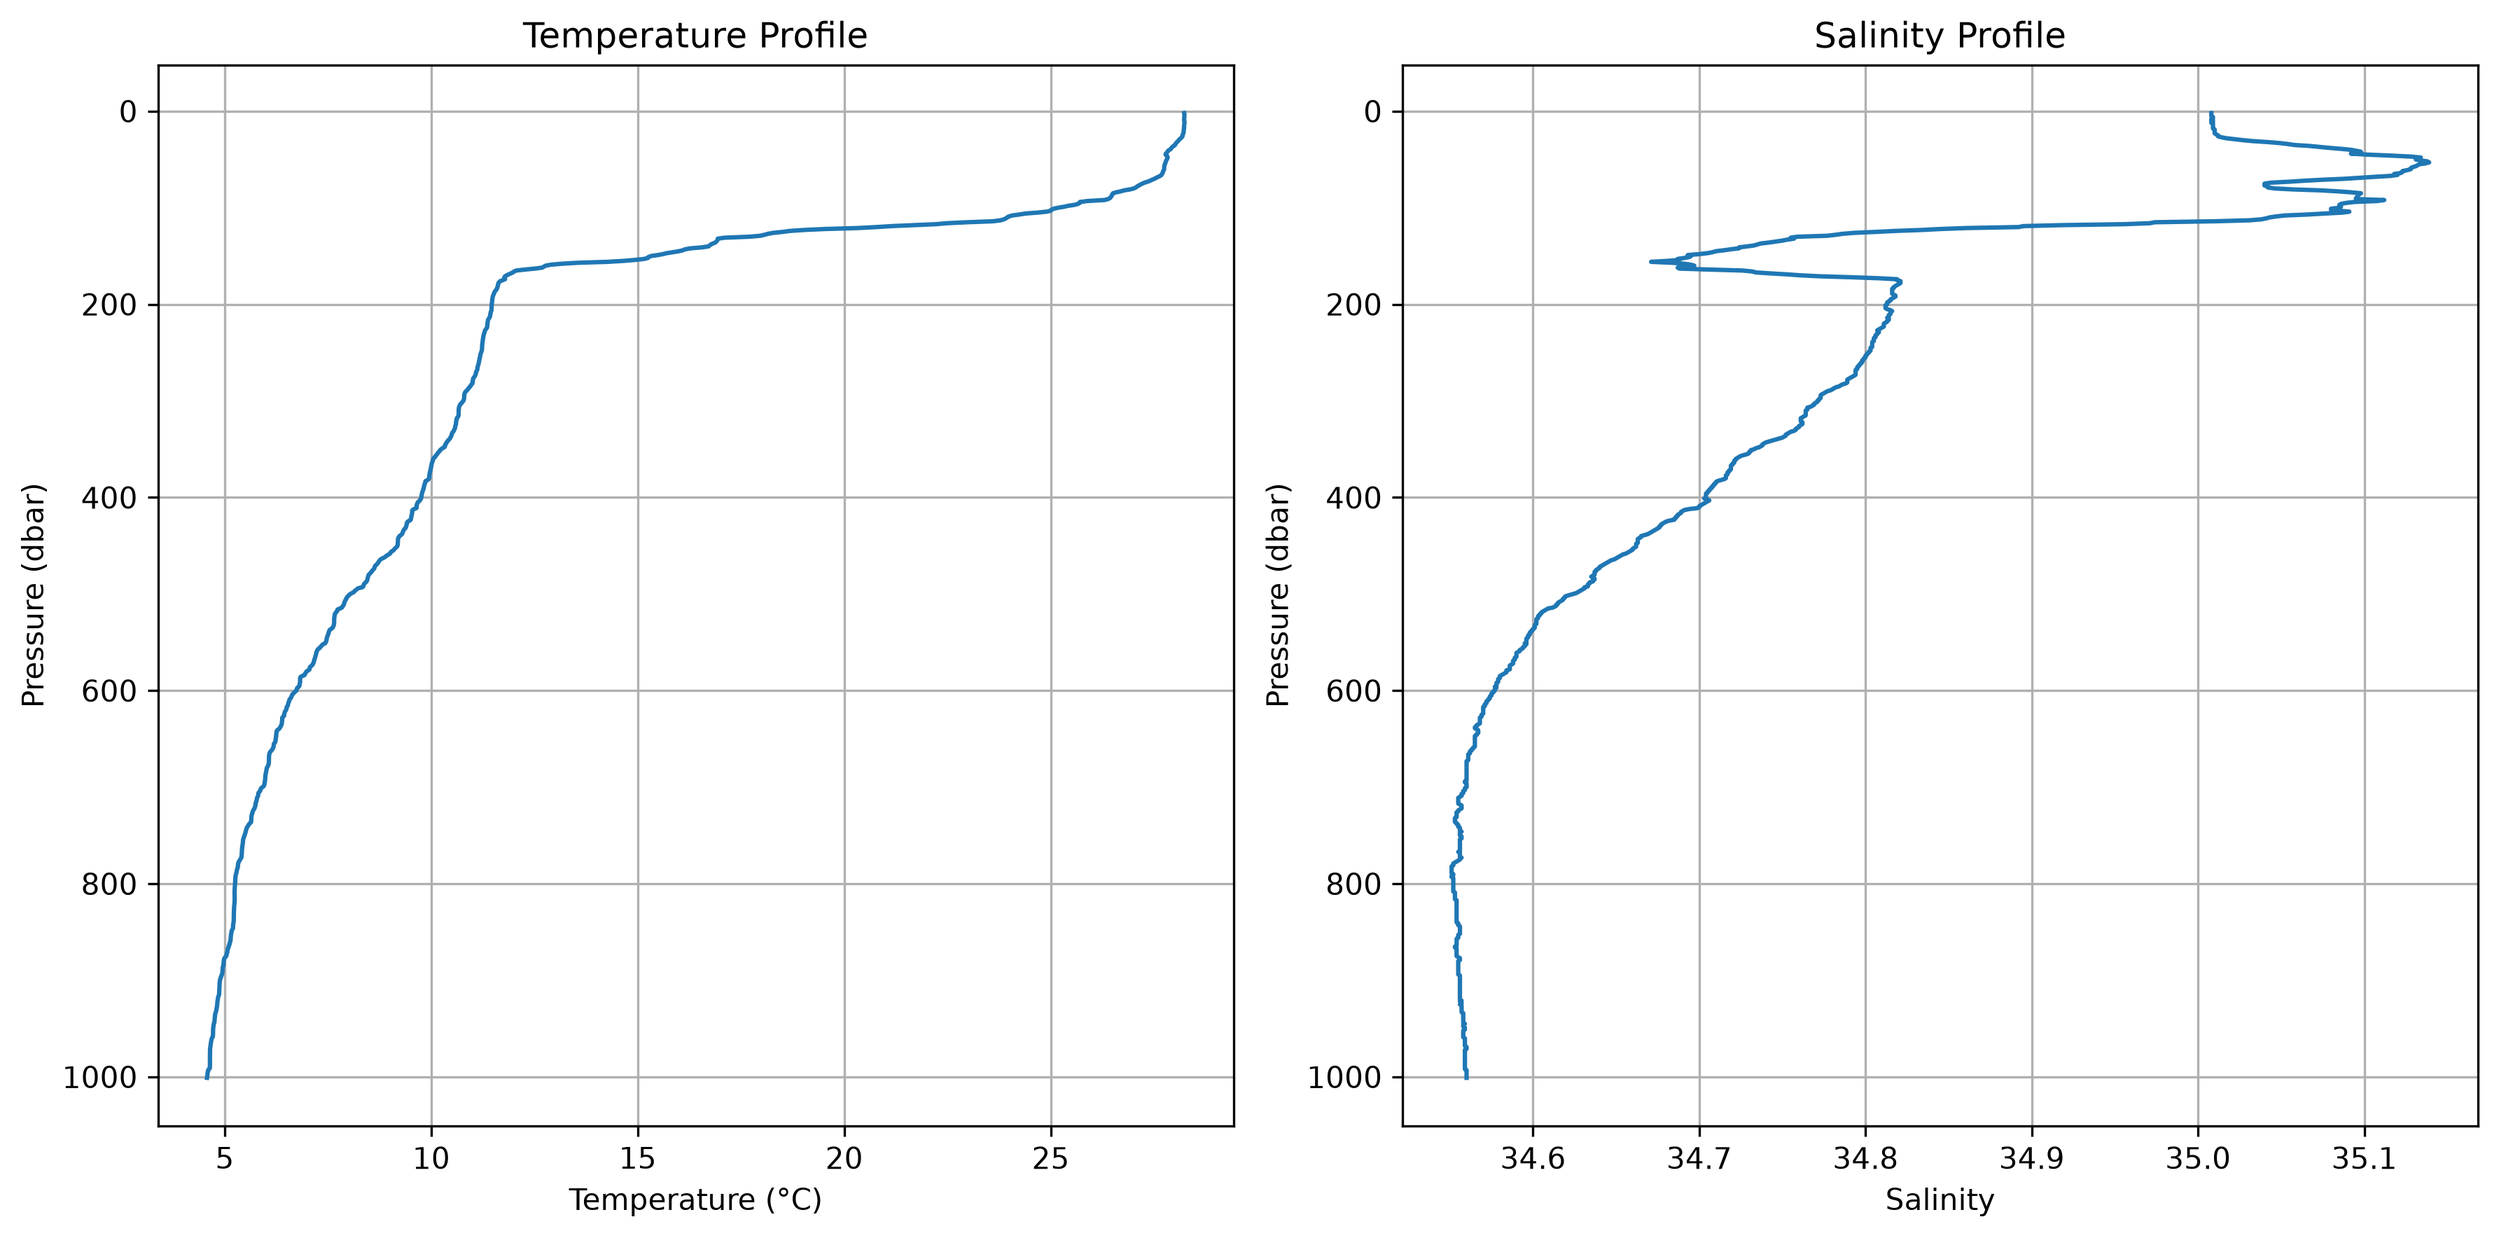
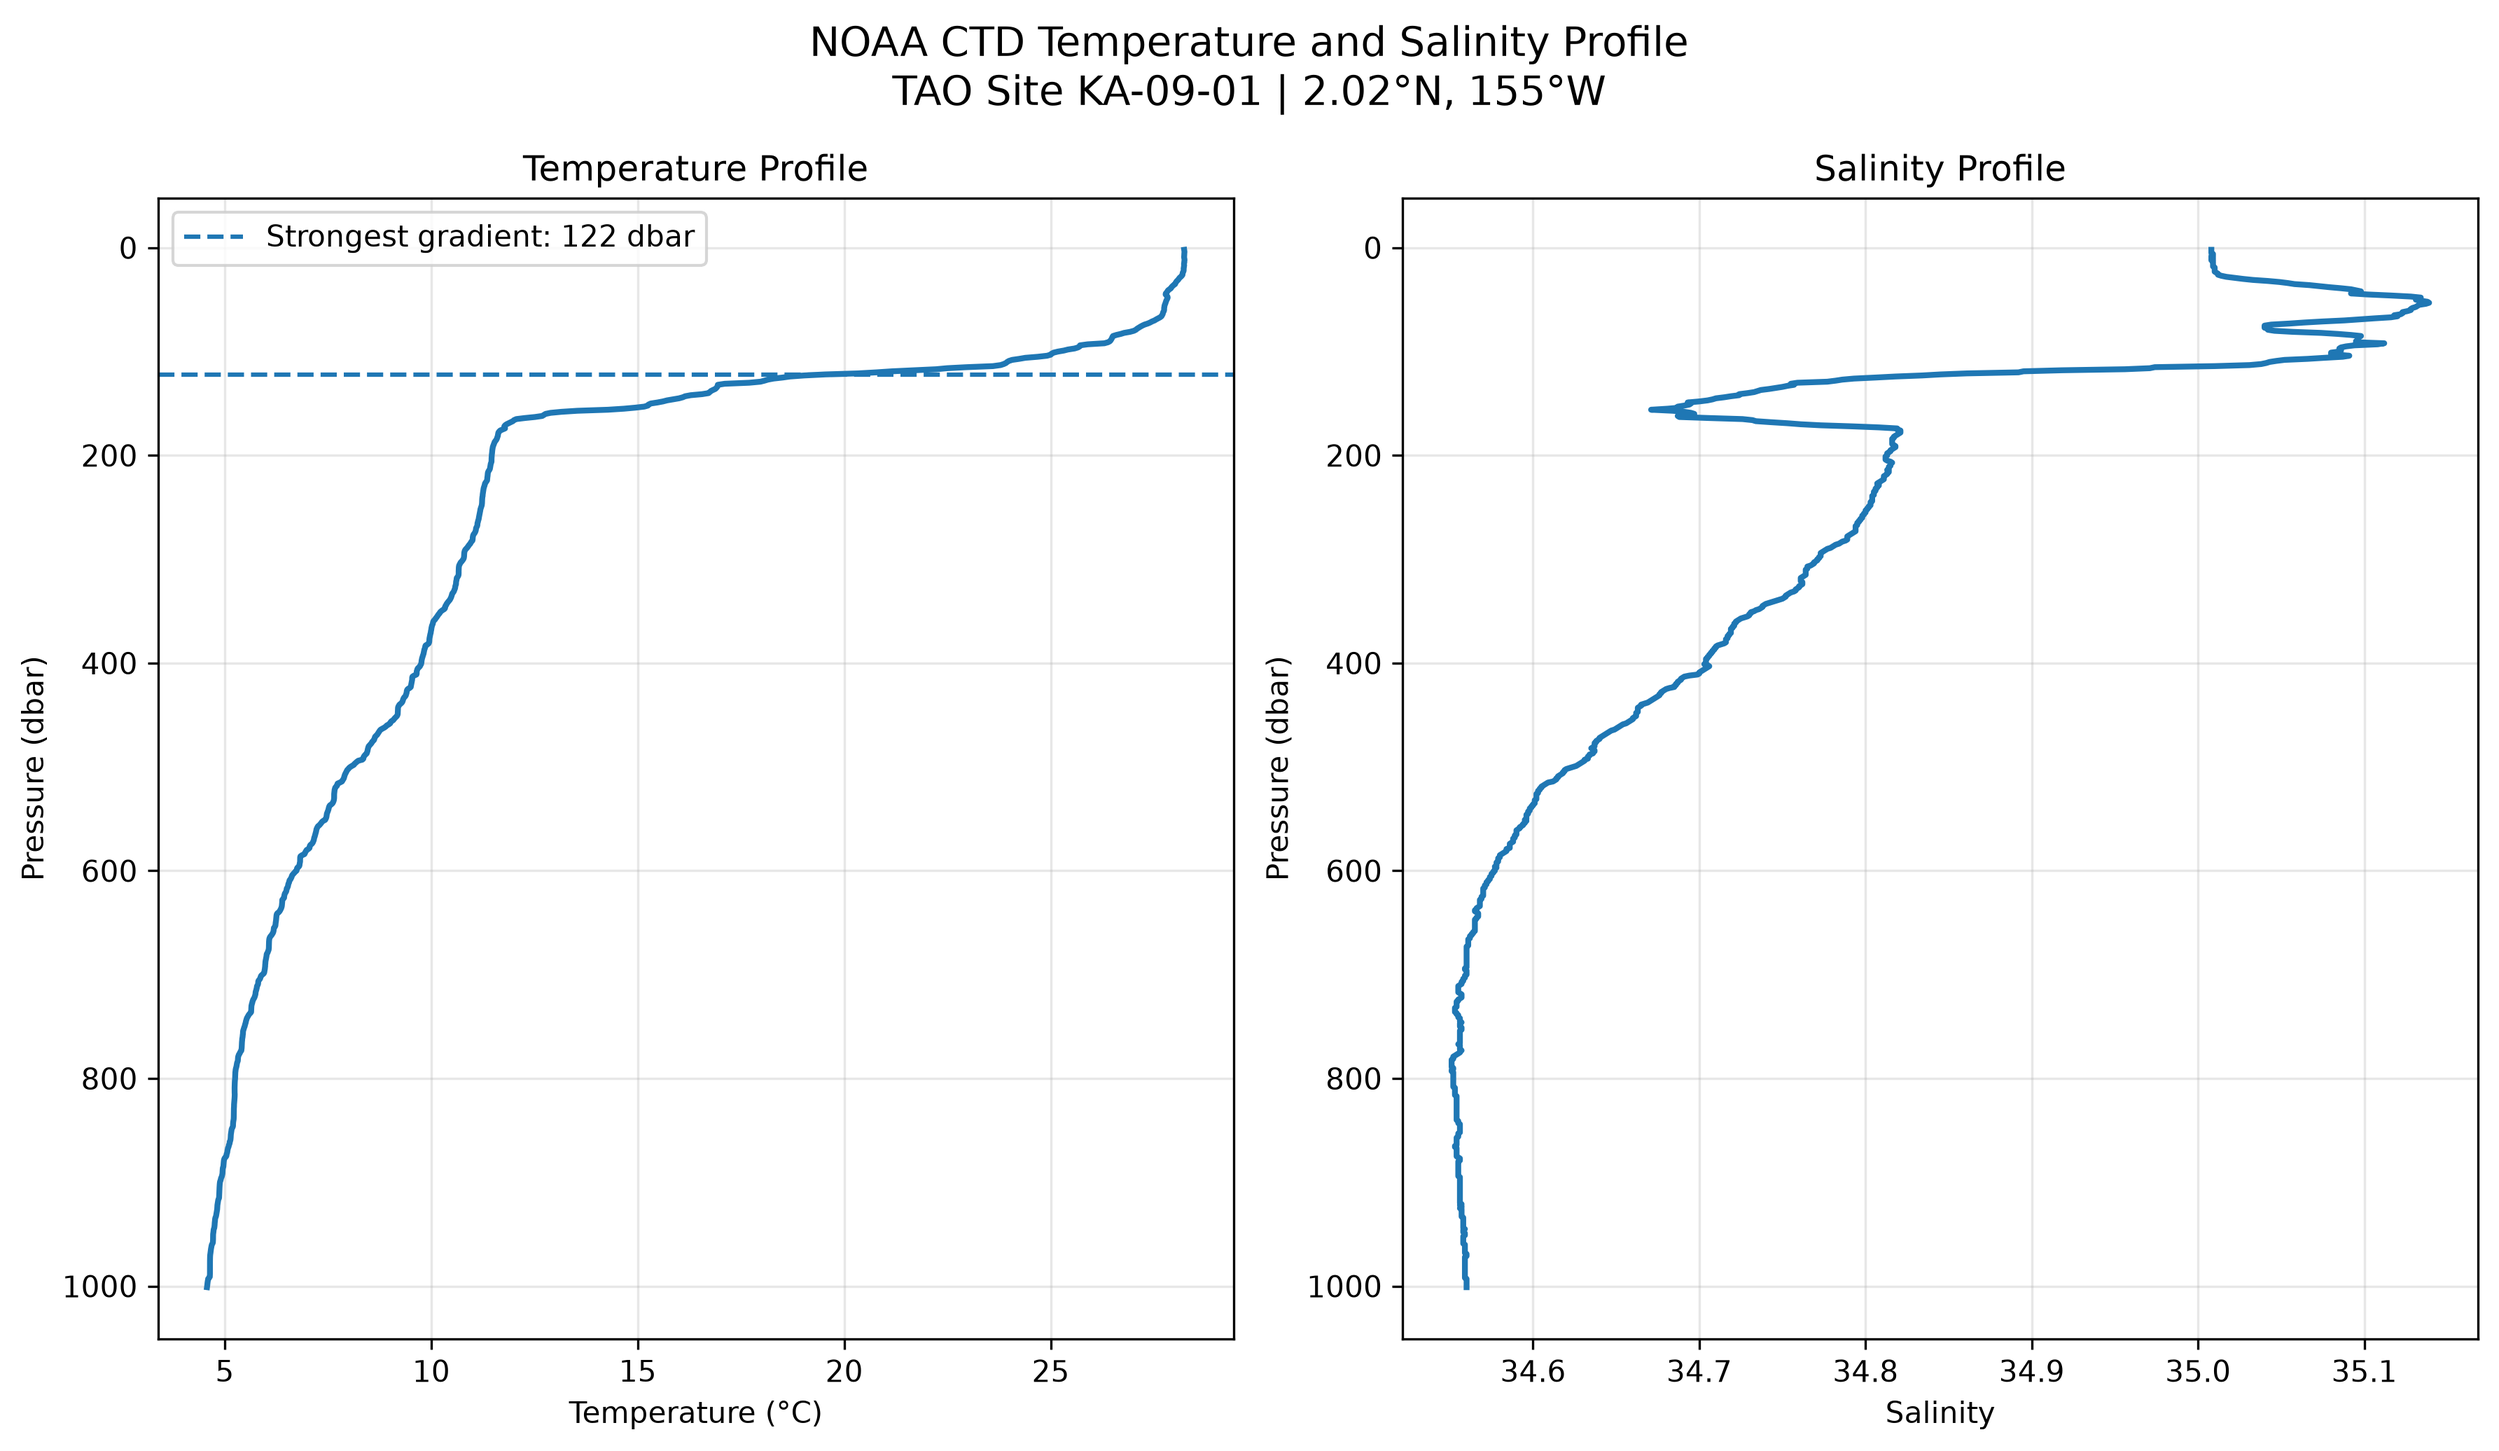
Add quantitative profile analysis

diff --git a/src/analyze_profile.py b/src/analyze_profile.py
@@ -1,0 +1,84 @@
+import xarray as xr
+import numpy as np
+
+# Load dataset
+ds = xr.open_dataset("data/profile.nc")
+
+# Extract data
+pressure = ds["PRES"].values
+temperature = ds["TEMP0"].values
+salinity = ds["PSAL0"].values
+
+# Remove missing values
+valid_temp = ~np.isnan(temperature)
+valid_sal = ~np.isnan(salinity)
+
+pressure_temp = pressure[valid_temp]
+temperature = temperature[valid_temp]
+
+pressure_sal = pressure[valid_sal]
+salinity = salinity[valid_sal]
+
+# Surface and deepest measurements
+surface_temp = temperature[0]
+deep_temp = temperature[-1]
+
+surface_sal = salinity[0]
+deep_sal = salinity[-1]
+
+# Basic statistics
+print("\n--- Oceanographic Profile Analysis ---\n")
+
+print(f"Pressure range: {pressure.min():.1f} - {pressure.max():.1f} dbar")
+
+print(f"\nTemperature:")
+print(f"  Surface: {surface_temp:.2f} °C")
+print(f"  Deepest: {deep_temp:.2f} °C")
+print(f"  Minimum: {temperature.min():.2f} °C")
+print(f"  Maximum: {temperature.max():.2f} °C")
+
+print(f"\nSalinity:")
+print(f"  Surface: {surface_sal:.2f}")
+print(f"  Deepest: {deep_sal:.2f}")
+print(f"  Minimum: {salinity.min():.2f}")
+print(f"  Maximum: {salinity.max():.2f}")
+
+# Approximate temperature gradient
+temp_gradient = np.gradient(temperature, pressure_temp)
+
+strongest_gradient_index = np.argmax(np.abs(temp_gradient))
+
+print("\nStrongest temperature gradient:")
+print(
+    f"  Pressure: {pressure_temp[strongest_gradient_index]:.1f} dbar"
+)
+print(
+    f"  Gradient: {temp_gradient[strongest_gradient_index]:.4f} °C/dbar"
+)
+
+print("\nAnalysis complete.")
+# Temperature gradient
+temp_gradient = np.gradient(temperature, pressure_temp)
+
+strongest_temp_index = np.argmax(np.abs(temp_gradient))
+
+print("\nStrongest temperature gradient:")
+print(
+    f"  Pressure: {pressure_temp[strongest_temp_index]:.1f} dbar"
+)
+print(
+    f"  Gradient: {temp_gradient[strongest_temp_index]:.4f} °C/dbar"
+)
+
+# Salinity gradient
+sal_gradient = np.gradient(salinity, pressure_sal)
+
+strongest_sal_index = np.argmax(np.abs(sal_gradient))
+
+print("\nStrongest salinity gradient:")
+print(
+    f"  Pressure: {pressure_sal[strongest_sal_index]:.1f} dbar"
+)
+print(
+    f"  Gradient: {sal_gradient[strongest_sal_index]:.4f} /dbar"
+)

diff --git a/src/plot_profile.py b/src/plot_profile.py
@@ -1,6 +1,6 @@
 import xarray as xr
 import matplotlib.pyplot as plt
-
+import numpy as np
 
 # Load NOAA CTD profile
 ds = xr.open_dataset("data/profile.nc")
@@ -10,24 +10,54 @@ pressure = ds["PRES"].values
 temperature = ds["TEMP0"].values
 salinity = ds["PSAL0"].values
 
+# Remove missing values
+valid_temp = ~np.isnan(temperature)
+valid_sal = ~np.isnan(salinity)
+
+pressure_temp = pressure[valid_temp]
+temperature = temperature[valid_temp]
+
+pressure_sal = pressure[valid_sal]
+salinity = salinity[valid_sal]
+
+# Calculate temperature gradient
+temp_gradient = np.gradient(temperature, pressure_temp)
+strongest_temp_index = np.argmax(np.abs(temp_gradient))
+thermocline_pressure = pressure_temp[strongest_temp_index]
+
 # Create figure
-fig, ax = plt.subplots(1, 2, figsize=(12, 6))
+fig, ax = plt.subplots(1, 2, figsize=(12, 7))
 
 # Temperature profile
-ax[0].plot(temperature, pressure)
+ax[0].plot(temperature, pressure_temp, linewidth=2)
+ax[0].axhline(
+    thermocline_pressure,
+    linestyle="--",
+    linewidth=1.5,
+    label=f"Strongest gradient: {thermocline_pressure:.0f} dbar"
+)
+
 ax[0].invert_yaxis()
 ax[0].set_xlabel("Temperature (°C)")
 ax[0].set_ylabel("Pressure (dbar)")
 ax[0].set_title("Temperature Profile")
-ax[0].grid(True)
+ax[0].grid(True, alpha=0.3)
+ax[0].legend()
 
 # Salinity profile
-ax[1].plot(salinity, pressure)
+ax[1].plot(salinity, pressure_sal, linewidth=2)
+
 ax[1].invert_yaxis()
 ax[1].set_xlabel("Salinity")
 ax[1].set_ylabel("Pressure (dbar)")
 ax[1].set_title("Salinity Profile")
-ax[1].grid(True)
+ax[1].grid(True, alpha=0.3)
+
+plt.suptitle(
+    "NOAA CTD Temperature and Salinity Profile\n"
+    "TAO Site KA-09-01 | 2.02°N, 155°W",
+    fontsize=14
+)
 
 plt.tight_layout()
 
@@ -38,5 +68,5 @@ plt.savefig(
     bbox_inches="tight"
 )
 
-print("Analysis complete.")
-print("Figure saved to figures/ocean_profile.png")
+print("Updated figure saved to figures/ocean_profile.png")
+print(f"Strongest temperature gradient: {thermocline_pressure:.0f} dbar")

diff --git a/README.md b/README.md
@@ -41,7 +41,29 @@ The generated profiles show how physical water properties change with increasing
 - Matplotlib
 - NetCDF
 - Linux / WSL2
+## Results
 
+The analyzed CTD profile spans a pressure range of 2–1001 dbar.
+
+### Temperature
+
+- Surface temperature: 28.23 °C
+- Deepest measured temperature: 4.57 °C
+- Temperature decreases substantially with increasing pressure.
+- The strongest temperature gradient occurs at 122 dbar, with a gradient of approximately -0.653 °C/dbar.
+
+The pronounced temperature transition around 122 dbar indicates a strong thermocline-region structure in the sampled upper ocean.
+
+### Salinity
+
+- Surface salinity: 35.01
+- Deepest measured salinity: 34.56
+- Salinity varies non-uniformly through the water column.
+- The strongest salinity gradient occurs at approximately 118 dbar, with a gradient of -0.0305/dbar.
+
+The temperature and salinity profiles both exhibit pronounced changes in approximately the same upper-ocean pressure range.
+
+![Oceanographic Profiles](figures/ocean_profile.png)
 ## Project Structure
 
 ```text
